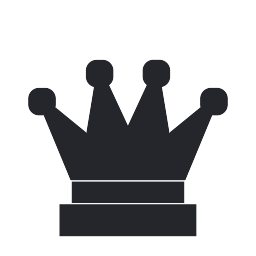
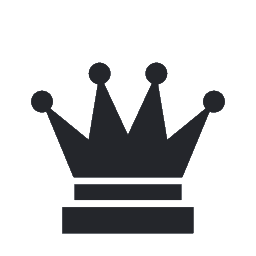
Add 7 piece sets: Boxicons, Material Symbols, Hugeicons, Iconoven, Line Awesome, Noto, DejaVu

Changed region(s): [[0.0938, 0.2188, 0.9062, 0.9375]]

diff --git a/build.py b/build.py
@@ -171,26 +171,55 @@ def place(im, path):
     """Icons fill their whole box: give them a margin, bottom-heavy like real pieces."""
     os.makedirs(os.path.dirname(path), exist_ok=True)
     sq = Image.new('RGBA', (256, 256)); sq.paste(im, ((256 - im.width) // 2, 256 - im.height - 10), im); sq.save(path)
-def iconset(name, folder, solid=None, line=None, strip_bg=False):
-    """line: outlined glyph, filled in for the body; solid: filled glyph, used when there is no line one."""
+def svgsrc(pattern, strip_bg=False):
+    return lambda r: alpha(pattern.format(role=r), strip_bg=strip_bg)
+def glyphsrc(fontfile, first):
+    """Unicode chess glyphs (U+2654 white king … ) from a font, all on one baseline so relative sizes hold."""
+    from PIL import ImageFont, ImageDraw
+    font = ImageFont.truetype(fontfile, 210)
+    def src(r):
+        im = Image.new('L', (224, 224)); ImageDraw.Draw(im).text((112, 206), chr(first + 'KQRBNP'.index(r)), font=font, fill=255, anchor='ms')
+        return im
+    return src
+def iconset(name, folder, line=None, solid=None):
+    """line: outlined glyph, filled in for the body (white, and black when there is no solid one);
+    solid: filled glyph for black (its cut-out details turn grey), or both sides when there is no line one."""
     from PIL import ImageChops
     for r in ROLES:
-        l = alpha(line.format(role=r)) if line else None
+        l = line(r) if line else None
+        s = solid(r) if solid else None
         if l is None:  # solid only: a grown silhouette makes white's outline
-            s = alpha(solid.format(role=r), strip_bg=strip_bg)
             ring = s.filter(ImageFilter.MaxFilter(7))
-            w = Image.alpha_composite(layer(ring, INK), layer(s, CREAM)); b = Image.alpha_composite(layer(ring, CHAR), layer(s, CHAR))
+            w = Image.alpha_composite(layer(ring, INK), layer(s, CREAM))
+        else:
+            w = Image.alpha_composite(layer(filled(l), CREAM), layer(l, INK))
+        if s is not None:
+            b = Image.alpha_composite(layer(filled(s), GREY), layer(s, CHAR))
         else:
             body = filled(l)
             inner = ImageChops.multiply(l, body.filter(ImageFilter.MinFilter(29)).filter(ImageFilter.MinFilter(29)))  # drop the outer contour
-            w = Image.alpha_composite(layer(body, CREAM), layer(l, INK)); b = Image.alpha_composite(layer(body, CHAR), layer(inner, GREY))
+            b = Image.alpha_composite(layer(body, CHAR), layer(inner, GREY))
         place(w, f'{OUT}/pieces/{folder}/w{r}.png'); place(b, f'{OUT}/pieces/{folder}/b{r}.png')
     pieceset(name, folder)
-iconset('Font Awesome', 'fontawesome', line=f'{C}/fa_reg/{{role}}.svg')
-iconset('Tabler', 'tabler', line=f'{C}/tabler_o/{{role}}.svg')
-iconset('Material', 'material', solid=f'{C}/mdi/{{role}}.svg')
-iconset('Lucide', 'lucide', line=f'{C}/lucide/{{role}}.svg')
-iconset('Game Icons', 'gameicons', solid=f'{C}/gameicons/{{role}}.svg', strip_bg=True)
+I = f'{DL}/ic'
+iconset('Font Awesome', 'fontawesome', line=svgsrc(f'{C}/fa_reg/{{role}}.svg'))
+iconset('Tabler', 'tabler', line=svgsrc(f'{C}/tabler_o/{{role}}.svg'))
+iconset('Material', 'material', solid=svgsrc(f'{C}/mdi/{{role}}.svg'))
+iconset('Lucide', 'lucide', line=svgsrc(f'{C}/lucide/{{role}}.svg'))
+iconset('Game Icons', 'gameicons', solid=svgsrc(f'{C}/gameicons/{{role}}.svg', strip_bg=True))
+iconset('Boxicons', 'boxicons', line=svgsrc(f'{I}/boxicons/{{role}}.svg'), solid=svgsrc(f'{I}/boxicons-filled/{{role}}.svg'))
+iconset('Material Symbols', 'materialsymbols', line=svgsrc(f'{I}/material-symbols-outline-rounded/{{role}}.svg'), solid=svgsrc(f'{I}/material-symbols-rounded/{{role}}.svg'))
+iconset('Hugeicons', 'hugeicons', line=svgsrc(f'{I}/hugeicons/{{role}}.svg'))
+iconset('Iconoven', 'iconoven', line=svgsrc(f'{I}/iconoven/{{role}}.svg'))
+iconset('Line Awesome', 'lineawesome', line=svgsrc(f'{I}/la/{{role}}.svg'))
+iconset('Noto', 'noto', line=glyphsrc(f'{DL}/fonts/NotoSansSymbols2.ttf', 0x2654), solid=glyphsrc(f'{DL}/fonts/NotoSansSymbols2.ttf', 0x265A))
+iconset('DejaVu', 'dejavu', line=glyphsrc(f'{DL}/fonts/DejaVuSans.ttf', 0x2654), solid=glyphsrc(f'{DL}/fonts/DejaVuSans.ttf', 0x265A))
+for folder, text in [('boxicons', 'Boxicons, https://boxicons.com, MIT'), ('materialsymbols', 'Material Symbols by Google, Apache License 2.0'),
+                     ('hugeicons', 'Hugeicons free, https://hugeicons.com, MIT'), ('iconoven', 'IconOven, MIT'),
+                     ('lineawesome', 'Line Awesome by Icons8, Apache License 2.0')]:
+    open(f'{OUT}/pieces/{folder}/LICENSE.txt', 'w').write(text + '\nObtained through Iconify (https://iconify.design); recoloured for this pack.\n')
+shutil.copy(f'{DL}/fonts/OFL-noto.txt', f'{OUT}/pieces/noto/LICENSE.txt')
+shutil.copy(f'{DL}/fonts/LICENSE', f'{OUT}/pieces/dejavu/LICENSE.txt')
 for folder, lic in [('fontawesome', 'fontawesome'), ('tabler', 'tabler'), ('material', 'mdi'), ('lucide', 'lucide'), ('gameicons', 'gameicons')]:
     shutil.copy(f'{C}/licenses/{lic}.txt', f'{OUT}/pieces/{folder}/LICENSE.txt')
 

diff --git a/README.md b/README.md
@@ -1,6 +1,6 @@
 # Lichess Neo pack: Modern Mix
 
-33 piece sets and 26 boards for [Lichess Neo](https://github.com/theophile-wallez/LichessNeo).
+40 piece sets and 26 boards for [Lichess Neo](https://github.com/theophile-wallez/LichessNeo).
 Import: paste this repository's link under **Packs** in the extension's settings.
 
 ## Pieces
@@ -37,6 +37,13 @@ Import: paste this repository's link under **Packs** in the extension's settings
 | Material     | [Material Design Icons](https://pictogrammers.com/library/mdi/), recoloured    | Apache 2.0 |
 | Lucide       | [Lucide](https://lucide.dev), recoloured                                       | ISC       |
 | Game Icons   | [game-icons.net](https://game-icons.net) by Skoll, recoloured                 | CC BY 3.0 |
+| Boxicons     | [Boxicons](https://boxicons.com) outline (white) and filled (black)          | MIT       |
+| Material Symbols | Google's [Material Symbols](https://fonts.google.com/icons), outlined (white) and filled (black) | Apache 2.0 |
+| Hugeicons    | [Hugeicons](https://hugeicons.com) free, recoloured                            | MIT       |
+| Iconoven     | IconOven, recoloured                                                           | MIT       |
+| Line Awesome | [Line Awesome](https://icons8.com/line-awesome) by Icons8, recoloured          | Apache 2.0 |
+| Noto         | chess glyphs of [Noto Sans Symbols 2](https://fonts.google.com/noto/specimen/Noto+Sans+Symbols+2) | OFL 1.1 |
+| DejaVu       | chess glyphs of [DejaVu Sans](https://dejavu-fonts.github.io)                  | Bitstream Vera / DejaVu |
 
 Pixel sets were cut from their sprite sheets and scaled up nearest-neighbour;
 Illustrated was downscaled to 256px. Icon sets were filled in and recoloured
